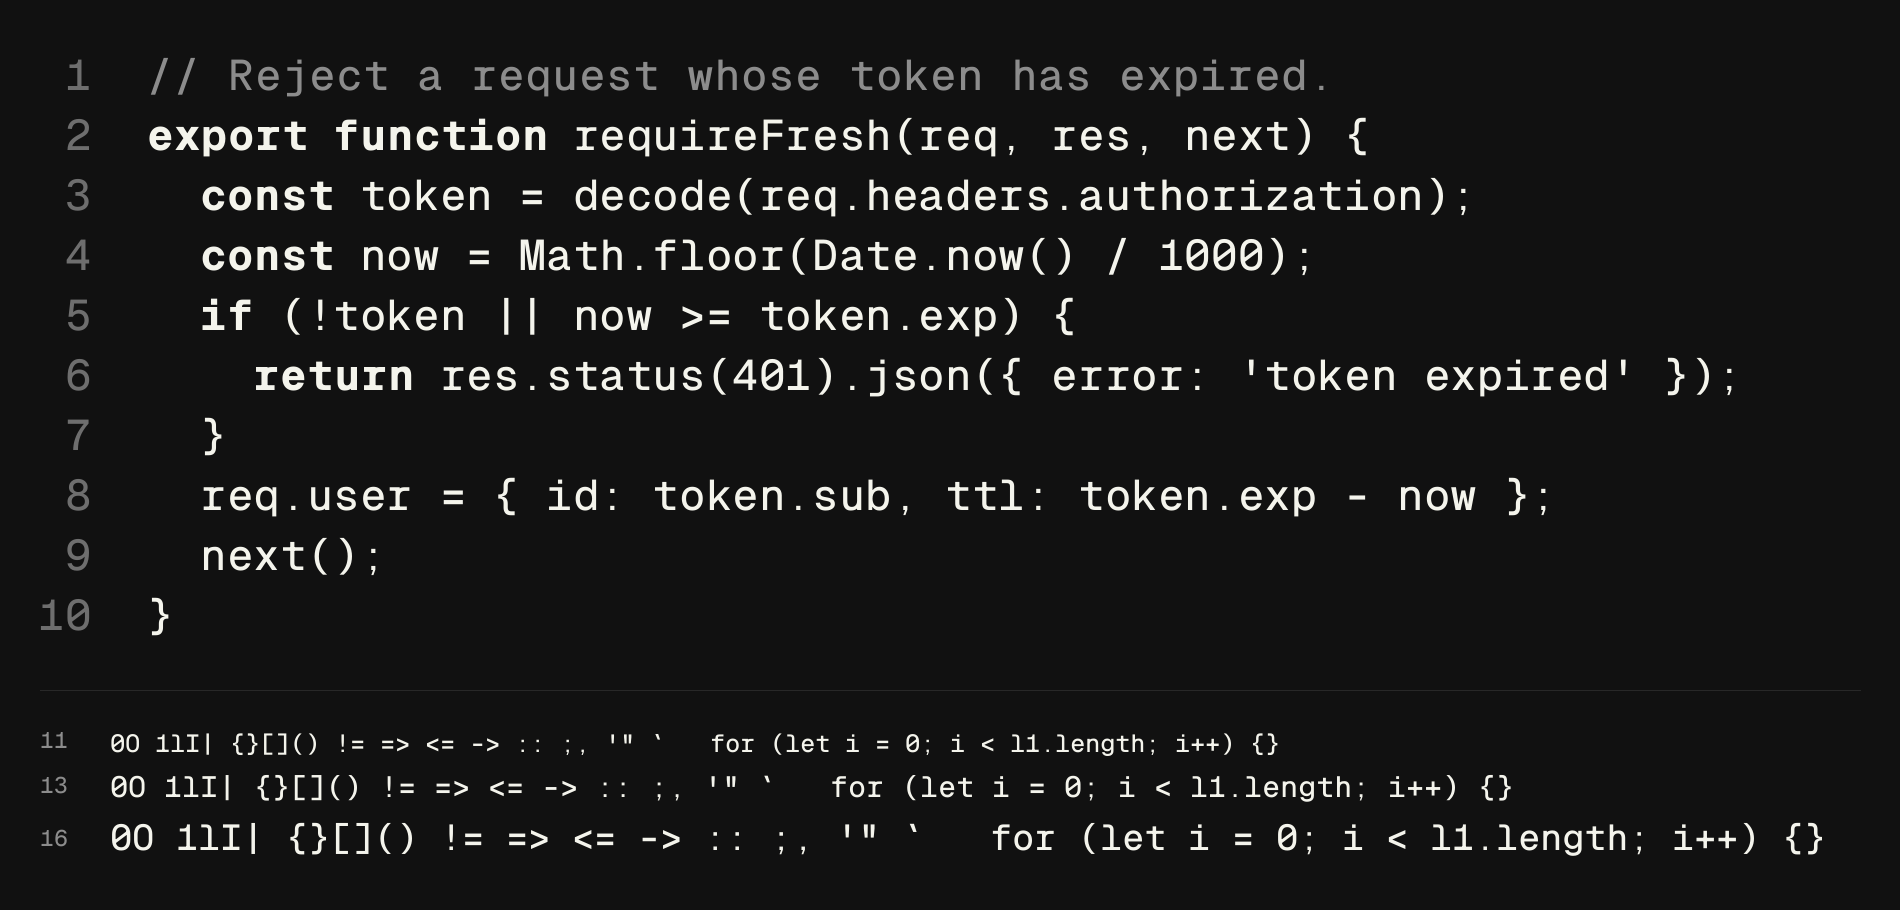
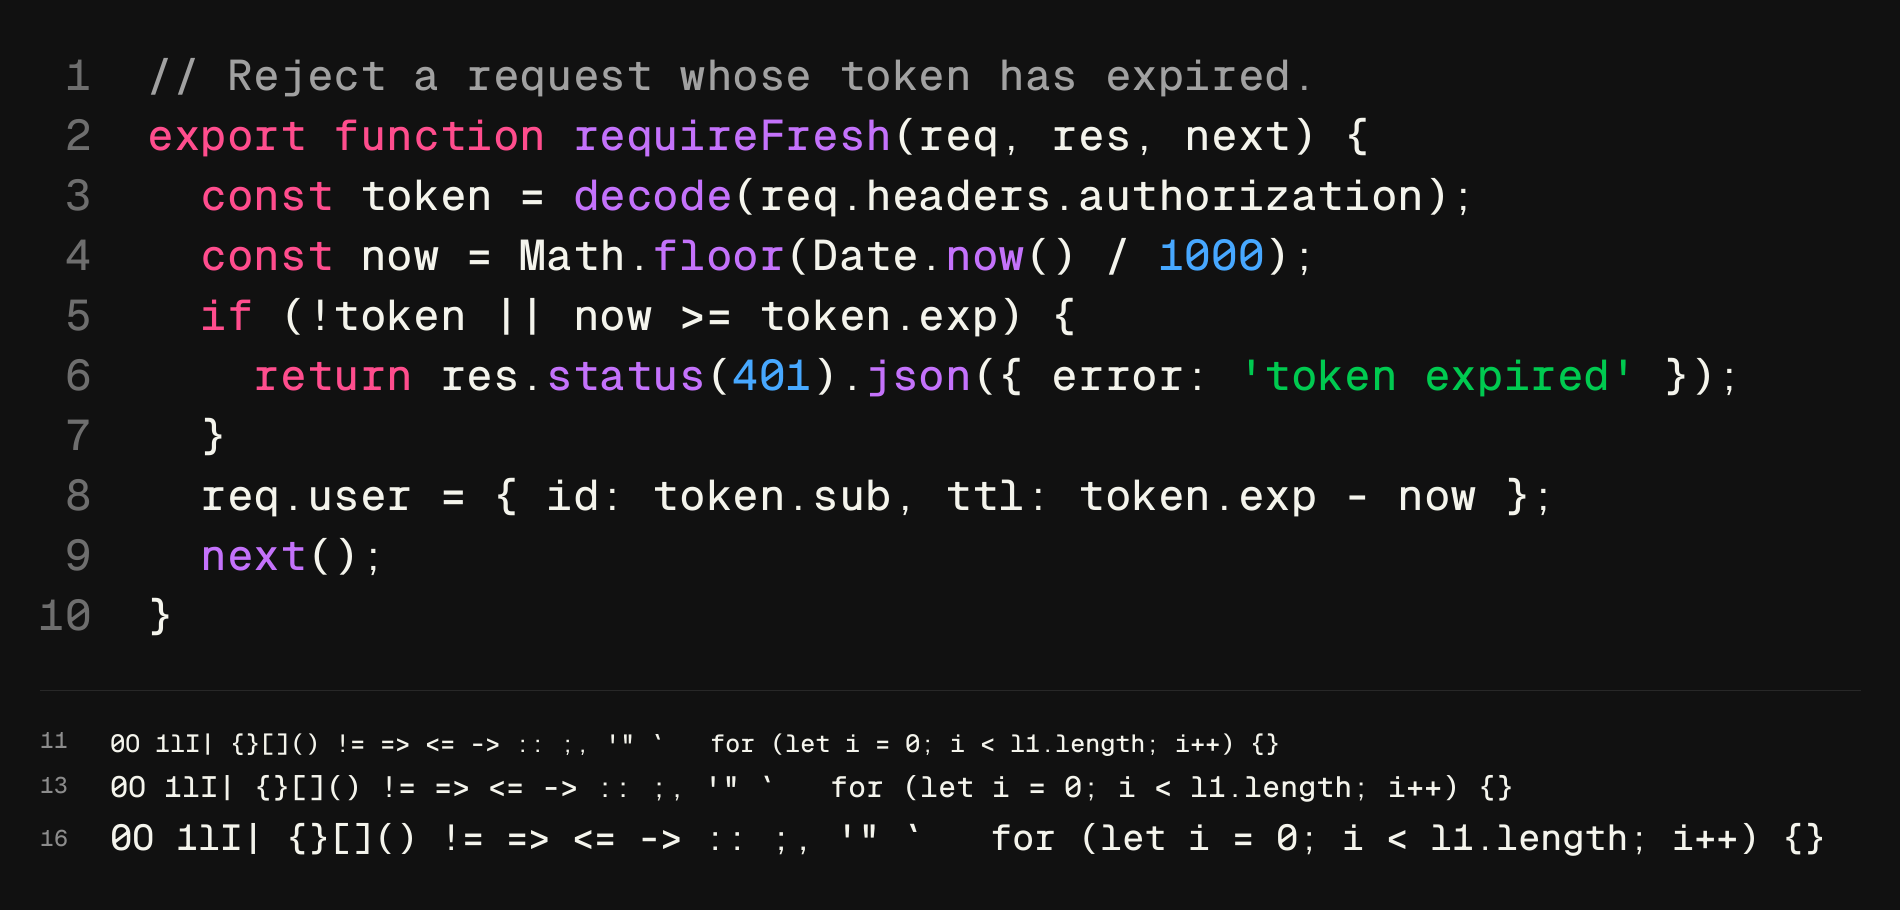
code.png with syntax colour on: the lab page's palette (Vercel Geist docs), keywords, calls, numbers, strings and comments

diff --git a/scripts/images.py b/scripts/images.py
@@ -57,19 +57,41 @@ CODE = ['// Reject a request whose token has expired.', 'export function require
         '  req.user = { id: token.sub, ttl: token.exp - now };', '  next();', '}']
 KEYWORDS = ('export', 'function', 'const', 'if', 'return')
 
+def oklch(L, C, h):
+    """sRGB 0-255 from OKLCH, for the lab page's syntax palette."""
+    import math
+    a, b = C * math.cos(math.radians(h)), C * math.sin(math.radians(h))
+    l_, m_, s_ = (L + 0.3963377774 * a + 0.2158037573 * b) ** 3, (L - 0.1055613458 * a - 0.0638541728 * b) ** 3, (L - 0.0894841775 * a - 1.2914855480 * b) ** 3
+    lin = (4.0767416621 * l_ - 3.3077115913 * m_ + 0.2309699292 * s_, -1.2684380046 * l_ + 2.6097574011 * m_ - 0.3413193965 * s_,
+           -0.0041960863 * l_ - 0.7034186147 * m_ + 1.7076147010 * s_)
+    g = lambda c: 12.92 * c if c <= 0.0031308 else 1.055 * c ** (1 / 2.4) - 0.055
+    return tuple(round(255 * min(1, max(0, g(c)))) for c in lin)
+
+# the lab page's "Syntax colour" palette (Vercel's Geist docs code blocks, dark)
+SYNTAX = {'c': (161, 161, 161), 'k': oklch(0.6936, 0.2223, 3.91), 's': oklch(0.731, 0.2158, 148.29),
+          'n': oklch(0.717, 0.1648, 250.794), 'f': oklch(0.6987, 0.2037, 309.51)}
+
+def tokens(line):
+    """[(class, text)]: comment, keyword, string, number, call, or plain ('')."""
+    import re
+    if line.lstrip().startswith('//'): return [('c', line)]
+    out = []
+    for m in re.finditer(r"'[^']*'|\d+|[A-Za-z_]\w*|.", line):
+        t = m.group(); nxt = line[m.end():m.end() + 1]
+        cls = ('s' if t[0] == "'" else 'n' if t.isdigit() else 'k' if t in KEYWORDS
+               else 'f' if (t[0].isalpha() or t[0] == '_') and nxt == '(' else '')
+        out.append((cls, t))
+    return out
+
 def code():
     im = Image.new('RGB', (1900, 910), PAPER); d = ImageDraw.Draw(im); size = 38; adv = size * 0.7
     for i, line in enumerate(CODE):
         y = 90 + 60 * i
         text(d, (92, y), str(i + 1), size, 400, (110, 110, 110), 'rs')
-        if line.startswith('//'): text(d, (147, y), line, size, 400, GREY); continue
-        x = 147; rest = line
-        while rest:                                   # keywords in Bold, the rest in Regular, on one grid
-            kw = next((k for k in KEYWORDS if rest.startswith(k) and not rest[len(k):len(k) + 1].isalnum()), None)
-            if kw and (x == 147 or line[int(round((x - 147) / adv)) - 1] == ' '):
-                text(d, (x, y), kw, size, 700); x += adv * len(kw); rest = rest[len(kw):]
-            else:
-                text(d, (x, y), rest[0], size, 400); x += adv; rest = rest[1:]
+        col = 0
+        for cls, t in tokens(line):                   # syntax colour on, one grid, all Regular
+            for ch in t:
+                text(d, (147 + adv * col, y), ch, size, 400, SYNTAX.get(cls, INK)); col += 1
     d.line([(40, 690), (1860, 690)], fill=(40, 40, 40), width=1)
     small = "0O 1lI| {}[]() != => <= -> :: ;, '\" `   for (let i = 0; i < l1.length; i++) {}"
     for px, y in ((11, 752), (13, 797), (16, 850)):
